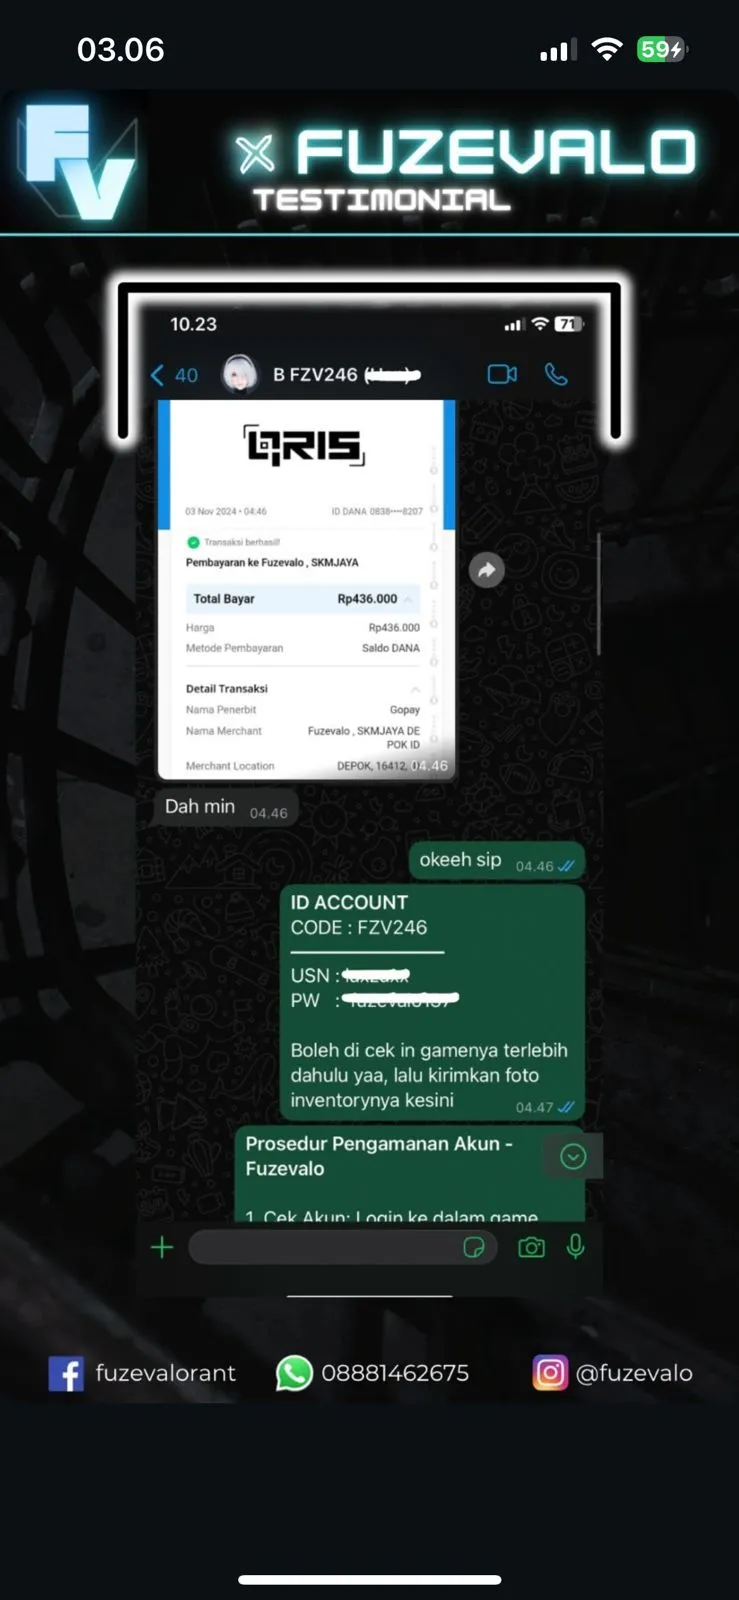
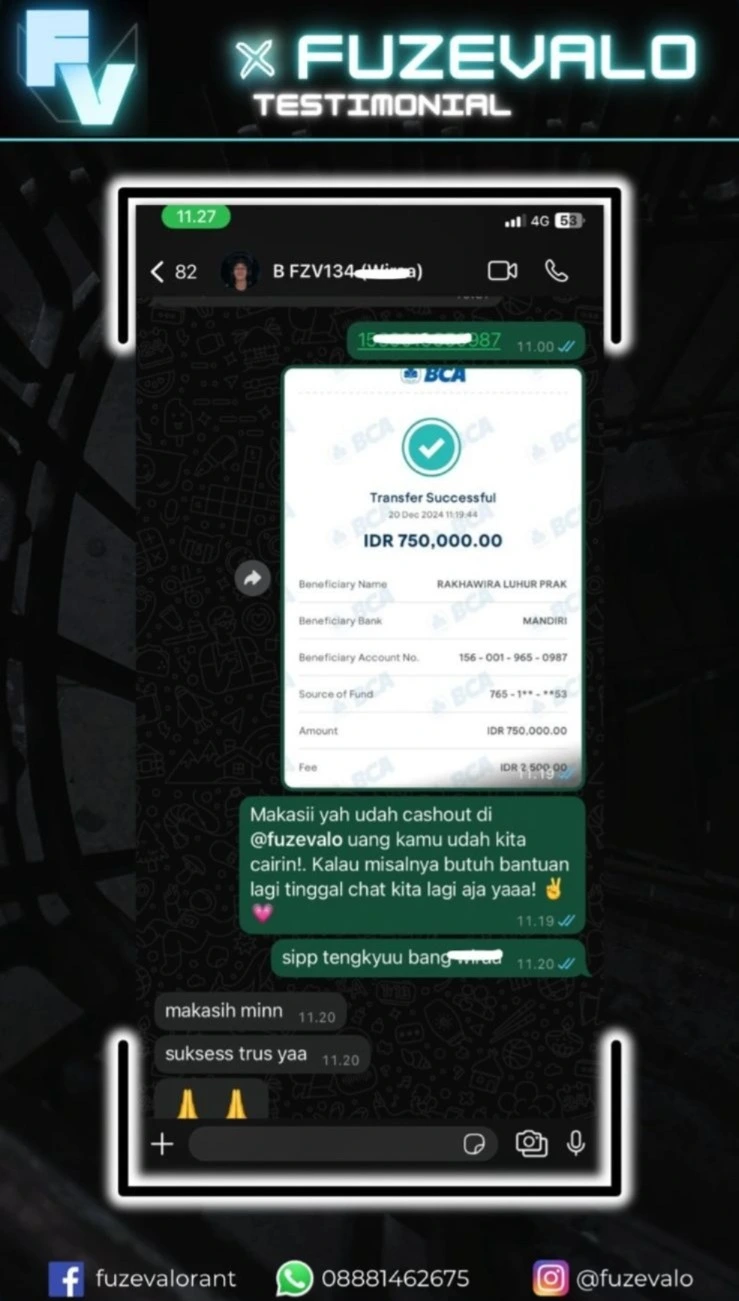
feat: urgent changes testi side

diff --git a/src/features/storefront/components/testimoni-section.tsx b/src/features/storefront/components/testimoni-section.tsx
@@ -8,6 +8,7 @@ import testi4 from "@/assets/testi/testi-4.webp";
 import testi5 from "@/assets/testi/testi-5.webp";
 import testi6 from "@/assets/testi/testi-6.webp";
 import testi7 from "@/assets/testi/testi-7.webp";
+import testi8 from "@/assets/testi/testi-8.webp";
 
 const testimonials = [
   { src: testi1, alt: "Testimoni customer 1" },
@@ -17,6 +18,7 @@ const testimonials = [
   { src: testi5, alt: "Testimoni customer 5" },
   { src: testi6, alt: "Testimoni customer 6" },
   { src: testi7, alt: "Testimoni customer 7" },
+  { src: testi8, alt: "Testimoni customer 8" },
 ];
 
 const loopedTestimonials = [...testimonials, ...testimonials];
@@ -38,19 +40,19 @@ export default function TestimoniSection() {
           </div>
         </div>
 
-        <div className="relative overflow-hidden rounded-[2rem] border border-primary/15 bg-card/40 px-4 py-5 shadow-[0_24px_90px_hsl(var(--background)_/_0.42)] backdrop-blur-sm sm:px-6 sm:py-6 lg:px-7">
+        <div className="relative overflow-hidden rounded-[2rem] border border-primary/15 bg-card/40 py-5 shadow-[0_24px_90px_hsl(var(--background)_/_0.42)] backdrop-blur-sm sm:py-6">
           <div className="relative z-10">
-            <div className="testimoni-strip-mask -mx-4 overflow-hidden px-4 sm:-mx-6 sm:px-6 lg:mx-0 lg:px-0">
-              <div className="testimoni-strip-track flex w-max gap-3 sm:gap-4">
+            <div className="testimoni-strip-mask overflow-hidden">
+              <div className="testimoni-strip-track flex w-max gap-3 px-3 sm:gap-4 sm:px-4">
                 {loopedTestimonials.map((item, index) => (
                   <div
                     key={`${item.alt}-${index}`}
-                    className="shrink-0 overflow-hidden rounded-[1.2rem] border border-primary/18 bg-background/78 p-1 shadow-[0_14px_38px_hsl(var(--background)_/_0.36)]"
+                    className="shrink-0 overflow-hidden rounded-[1.2rem] border border-primary/18 bg-background/78 shadow-[0_14px_38px_hsl(var(--background)_/_0.36)]"
                   >
                     <Image
                       src={item.src}
                       alt={item.alt}
-                      className="h-auto w-[138px] rounded-[0.95rem] object-cover sm:w-[176px] lg:w-[212px]"
+                      className="block h-auto w-[138px] object-cover sm:w-[176px] lg:w-[212px]"
                       priority={index < testimonials.length}
                     />
                   </div>

diff --git a/src/app/globals.css b/src/app/globals.css
@@ -102,18 +102,14 @@
     mask-image: linear-gradient(
       to right,
       transparent 0%,
-      black 6%,
-      black 94%,
+      black 2.5%,
+      black 97.5%,
       transparent 100%
     );
   }
 
   .testimoni-strip-track {
     animation: testimoni-strip-marquee 34s linear infinite;
-  }
-
-  .testimoni-strip-track:hover {
-    animation-play-state: paused;
   }
 
   .testimoni-strip-track-reverse {
@@ -208,8 +204,8 @@
     mask-image: linear-gradient(
       to right,
       transparent 0%,
-      black 10%,
-      black 90%,
+      black 5%,
+      black 95%,
       transparent 100%
     );
   }
